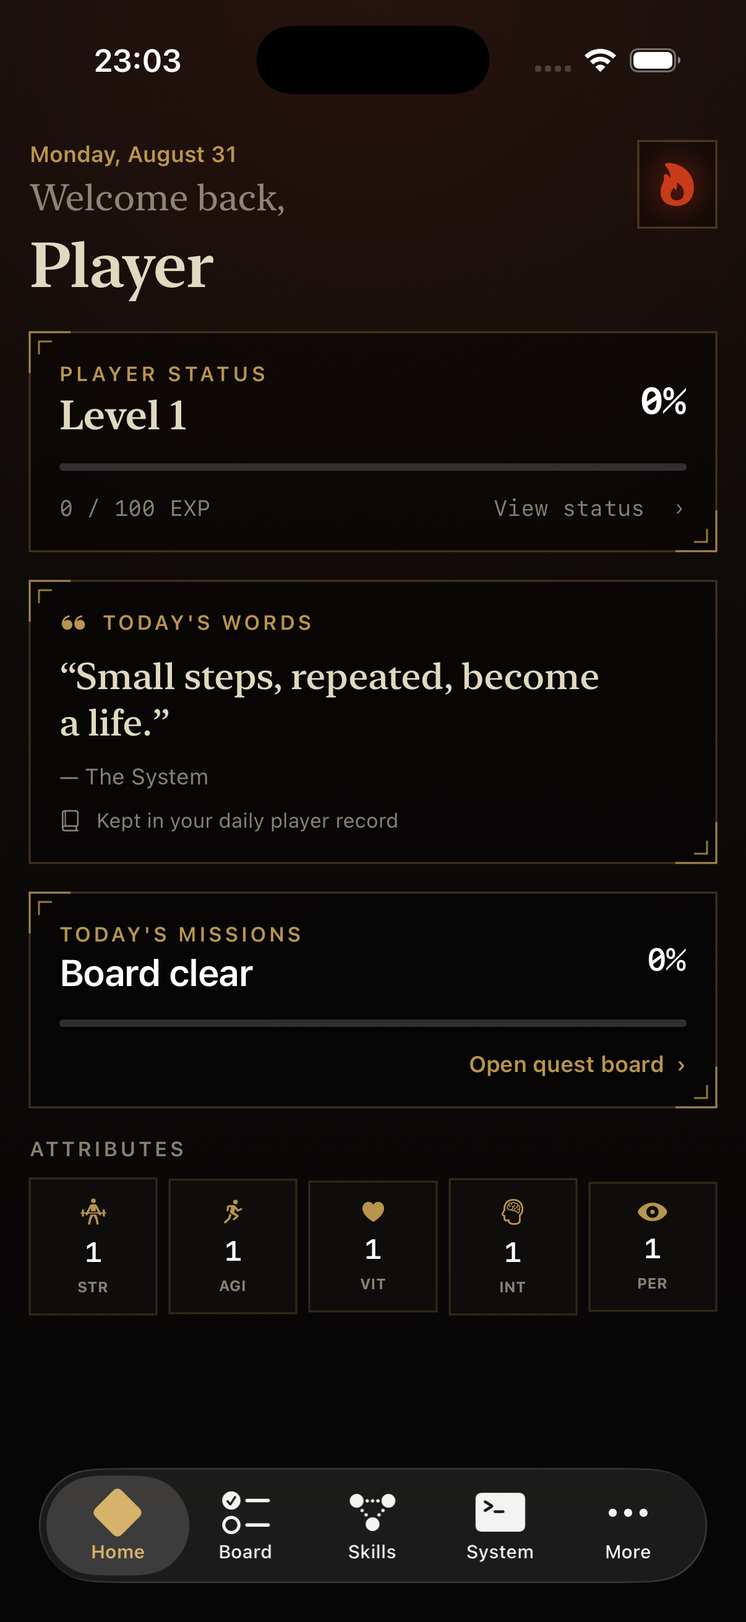
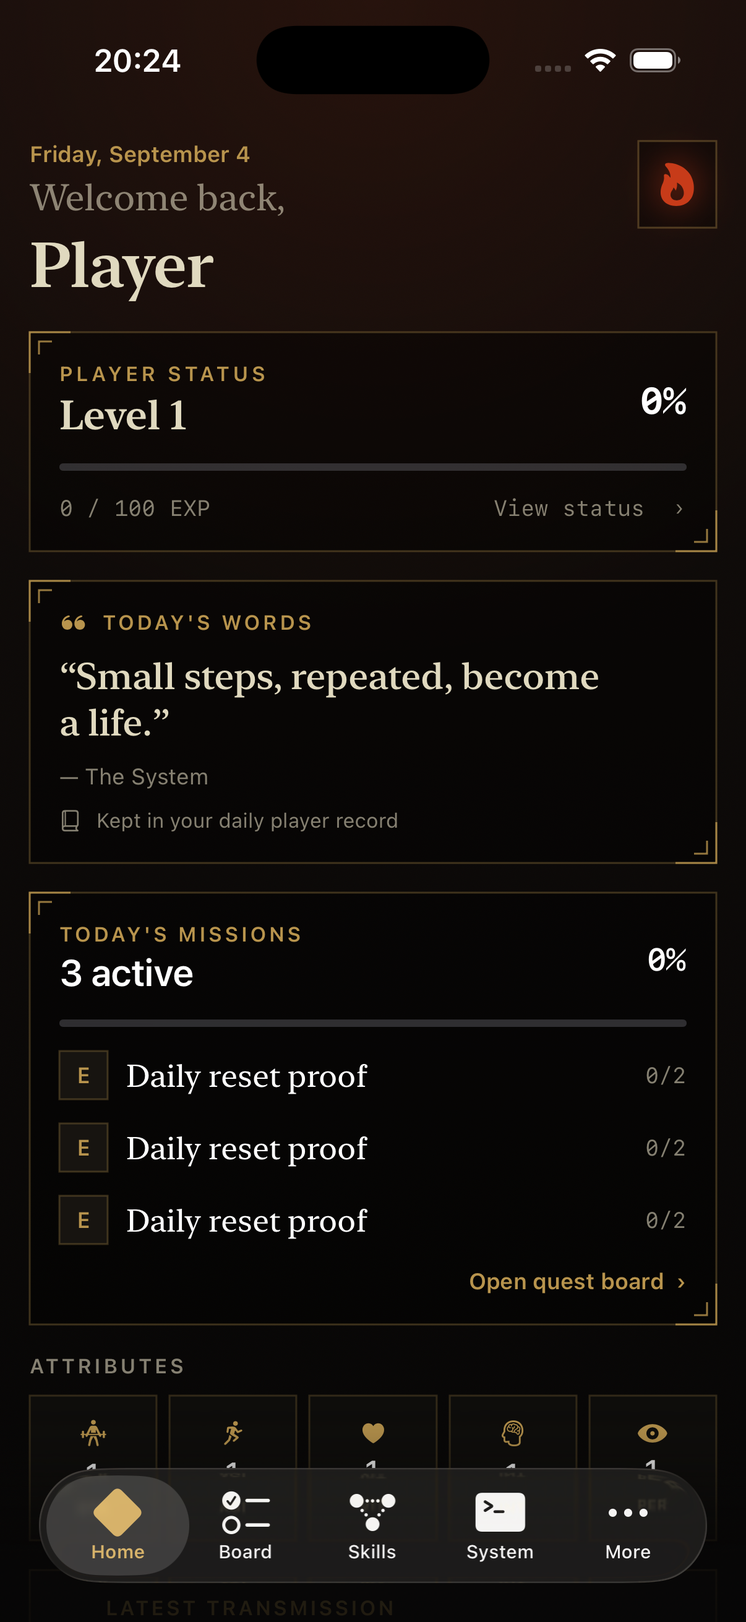
Add durable daily quest resets

diff --git a/ios/LifeSystem/Persistence.swift b/ios/LifeSystem/Persistence.swift
@@ -15,10 +15,19 @@ struct LocalSnapshot: Codable {
     var events: [SystemEvent]
     var quote: DailyQuote
     var attachmentData: [Int: Data]?
+    var penalties: [LocalPenalty]?
 
     static var initial: Self {
-        .init(player: .init(id: 1, name: "Player", level: 1, exp: 0, expToNextLevel: 100, expProgress: 0, totalExpEarned: 0, statPoints: 0, stats: .init(strength: 1, agility: 1, vitality: 1, intelligence: 1, perception: 1), timezone: TimeZone.current.identifier), quests: [], skills: [], practices: [:], events: [], quote: .init(localDate: Date.now.formatted(.iso8601.year().month().day()), quote: .init(id: 1, text: "Small steps, repeated, become a life.", author: "The System"), poolSize: 1, refreshAfter: Calendar.current.date(byAdding: .day, value: 1, to: .now)!.ISO8601Format()), attachmentData: [:])
+        .init(player: .init(id: 1, name: "Player", level: 1, exp: 0, expToNextLevel: 100, expProgress: 0, totalExpEarned: 0, statPoints: 0, stats: .init(strength: 1, agility: 1, vitality: 1, intelligence: 1, perception: 1), timezone: TimeZone.current.identifier), quests: [], skills: [], practices: [:], events: [], quote: .init(localDate: Date.now.formatted(.iso8601.year().month().day()), quote: .init(id: 1, text: "Small steps, repeated, become a life.", author: "The System"), poolSize: 1, refreshAfter: Calendar.current.date(byAdding: .day, value: 1, to: .now)!.ISO8601Format()), attachmentData: [:], penalties: [])
     }
+}
+
+struct LocalPenalty: Codable {
+    let questId: Int
+    let instanceId: Int
+    let reason: String
+    let expLost: Int
+    let createdAt: String
 }
 
 @MainActor final class PersistenceController {
@@ -63,8 +72,13 @@ enum LocalDataError: LocalizedError {
         case ("POST", "/quests"):
             let id = (data.quests.map(\.id).max() ?? 0) + 1
             let target = fields["target_count"] as? Int ?? 1
-            let schedule = (fields["schedule"] as? [String: Any])?["kind"] as? String ?? "daily"
-            let quest = Quest(id: id, title: fields["title"] as? String ?? "Untitled quest", description: fields["description"] as? String, schedule: .init(label: scheduleLabel(schedule)), difficulty: fields["difficulty"] as? String ?? "E", targetCount: target, unit: fields["unit"] as? String, practiceMinutes: fields["practice_minutes"] as? Int ?? 10, statReward: fields["stat_reward"] as? String, statRewardAmount: fields["stat_reward_amount"] as? Int ?? 0, skillId: fields["skill_id"] as? Int, isActive: true, currentInstance: .init(id: id, progress: 0, targetCount: target, status: "active", periodEnd: "Today"), nextDueDate: nil)
+            let scheduleFields = fields["schedule"] as? [String: Any] ?? [:]
+            let schedule = scheduleFields["kind"] as? String ?? "daily"
+            let today = localDay(for: data.player)
+            let spec = QuestSchedule(label: scheduleLabel(schedule), kind: schedule, days: scheduleFields["days"] as? [Int], intervalDays: scheduleFields["interval_days"] as? Int, anchor: isoDay(today), weekStart: scheduleFields["week_start"] as? Int)
+            let period = currentPeriod(for: spec, on: today)
+            let instance = period.map { QuestInstance(id: id, progress: 0, targetCount: target, status: "active", periodEnd: $0.end.map(isoDay), periodStart: isoDay($0.start)) }
+            let quest = Quest(id: id, title: fields["title"] as? String ?? "Untitled quest", description: fields["description"] as? String, schedule: spec, difficulty: fields["difficulty"] as? String ?? "E", targetCount: target, unit: fields["unit"] as? String, practiceMinutes: fields["practice_minutes"] as? Int ?? 10, statReward: fields["stat_reward"] as? String, statRewardAmount: fields["stat_reward_amount"] as? Int ?? 0, skillId: fields["skill_id"] as? Int, isActive: true, currentInstance: instance, nextDueDate: nil)
             data.quests.append(quest); result = quest
         case ("POST", let value) where value.hasSuffix("/progress") || value.hasSuffix("/complete"):
             guard let id = Int(value.split(separator: "/")[1]), let index = data.quests.firstIndex(where: { $0.id == id }) else { throw LocalDataError.missing("Quest") }
@@ -136,7 +150,8 @@ enum LocalDataError: LocalizedError {
             let id = Int(value.split(separator: "/").last ?? "") ?? 0
             guard let bytes = data.attachmentData?[id] else { throw LocalDataError.missing("Practice attachment") }
             result = bytes
-        case ("POST", "/system/daily-reset"): result = DailyReset(resetDate: Date.now.formatted(.iso8601.year().month().day()), failedCount: 0, spawnedCount: 0, totalExpLost: 0)
+        case ("POST", "/system/daily-reset"):
+            result = runLocalDailyReset(&data, on: localDay(for: data.player))
         default: throw LocalDataError.unsupported("\(method) \(path)")
         }
         if method != "GET" { record.payload = try encoder.encode(data); record.modifiedAt = .now; try context.save() }
@@ -144,6 +159,17 @@ enum LocalDataError: LocalizedError {
     }
 
     func request<Response: Decodable>(_ path: String, method: String = "GET") async throws -> Response { try await request(path, method: method, body: Optional<String>.none) }
+#if DEBUG
+    func backdateQuestForResetProof(_ questID: Int) throws {
+        let context = PersistenceController.shared.container.mainContext
+        let record = try load(context)
+        var data = try decoder.decode(LocalSnapshot.self, from: record.payload)
+        guard let index = data.quests.firstIndex(where: { $0.id == questID }), let instance = data.quests[index].currentInstance else { throw LocalDataError.missing("Quest") }
+        let yesterday = Calendar.current.date(byAdding: .day, value: -1, to: localDay(for: data.player))!
+        data.quests[index] = data.quests[index].replacingInstance(.init(id: instance.id, progress: instance.progress, targetCount: instance.targetCount, status: "active", periodEnd: isoDay(yesterday), periodStart: isoDay(yesterday)))
+        record.payload = try encoder.encode(data); record.modifiedAt = .now; try context.save()
+    }
+#endif
     private func load(_ context: ModelContext) throws -> SyncedSystemState {
         var descriptor = FetchDescriptor<SyncedSystemState>(sortBy: [SortDescriptor(\.modifiedAt, order: .reverse)]); descriptor.fetchLimit = 1
         if let found = try context.fetch(descriptor).first { return found }
@@ -154,6 +180,64 @@ enum LocalDataError: LocalizedError {
 
 private let maximumLevel = 999
 private let statPointsPerLevel = 3
+
+private struct LocalPeriod { let start: Date; let end: Date? }
+private let dayFormatter: DateFormatter = { let value = DateFormatter(); value.calendar = Calendar(identifier: .gregorian); value.locale = Locale(identifier: "en_US_POSIX"); value.dateFormat = "yyyy-MM-dd"; return value }()
+private func isoDay(_ date: Date) -> String { dayFormatter.string(from: date) }
+private func parseDay(_ value: String?) -> Date? { value.flatMap(dayFormatter.date) }
+private func localDay(for player: PlayerStatus) -> Date { var calendar = Calendar(identifier: .gregorian); calendar.timeZone = TimeZone(identifier: player.timezone) ?? .current; return calendar.startOfDay(for: .now) }
+
+private func currentPeriod(for schedule: QuestSchedule, on day: Date) -> LocalPeriod? {
+    var calendar = Calendar(identifier: .gregorian); calendar.timeZone = dayFormatter.timeZone ?? .current
+    let legacyKind: String
+    switch schedule.label {
+    case "One time": legacyKind = "once"
+    case "Selected days": legacyKind = "weekdays"
+    case "Every N days": legacyKind = "interval"
+    case "Weekly target": legacyKind = "weekly"
+    default: legacyKind = "daily"
+    }
+    let kind = schedule.kind ?? legacyKind
+    if kind == "once" { return .init(start: parseDay(schedule.anchor) ?? day, end: nil) }
+    if kind == "daily" { return .init(start: day, end: day) }
+    let weekday = (calendar.component(.weekday, from: day) + 5) % 7
+    if kind == "weekdays" { return (schedule.days ?? []).contains(weekday) ? .init(start: day, end: day) : nil }
+    if kind == "weekly" {
+        let startDay = schedule.weekStart ?? 0, delta = (weekday - startDay + 7) % 7
+        let start = calendar.date(byAdding: .day, value: -delta, to: day)!
+        return .init(start: start, end: calendar.date(byAdding: .day, value: 6, to: start))
+    }
+    let anchor = parseDay(schedule.anchor) ?? day, length = max(1, schedule.intervalDays ?? 1)
+    let elapsed = max(0, calendar.dateComponents([.day], from: anchor, to: day).day ?? 0)
+    let start = calendar.date(byAdding: .day, value: (elapsed / length) * length, to: anchor)!
+    return .init(start: start, end: calendar.date(byAdding: .day, value: length - 1, to: start))
+}
+
+private func runLocalDailyReset(_ data: inout LocalSnapshot, on today: Date) -> DailyReset {
+    var failed = 0, spawned = 0, lost = 0
+    if data.penalties == nil { data.penalties = [] }
+    for index in data.quests.indices where data.quests[index].isActive {
+        let quest = data.quests[index]
+        if let instance = quest.currentInstance, instance.status == "active", let end = parseDay(instance.periodEnd), end < today {
+            failed += 1
+            let expLost = min(data.player.exp, quest.practiceMinutes)
+            lost += expLost
+            data.player = data.player.replacingExp(data.player.exp - expLost)
+            data.penalties?.append(.init(questId: quest.id, instanceId: instance.id, reason: "Failed quest: \(quest.title)", expLost: expLost, createdAt: Date.now.ISO8601Format()))
+            data.events.insert(.init(id: nextEventID(data.events), eventType: "penalty_applied", message: "Penalty incurred: Failed quest: \(quest.title) (-\(expLost) EXP)", createdAt: Date.now.ISO8601Format()), at: 0)
+            data.events.insert(.init(id: nextEventID(data.events), eventType: "quest_failed", message: "Quest failed: \(quest.title) (\(instance.progress)/\(instance.targetCount))", createdAt: Date.now.ISO8601Format()), at: 0)
+        }
+        if let period = currentPeriod(for: quest.schedule, on: today), quest.schedule.kind != "once", quest.currentInstance?.periodStart != isoDay(period.start) {
+            let nextID = (data.quests.compactMap(\.currentInstance?.id).max() ?? 0) + 1
+            data.quests[index] = quest.replacingInstance(.init(id: nextID, progress: 0, targetCount: quest.targetCount, status: "active", periodEnd: period.end.map(isoDay), periodStart: isoDay(period.start)))
+            spawned += 1
+        }
+    }
+    if failed > 0 || spawned > 0 {
+        data.events.insert(.init(id: nextEventID(data.events), eventType: "daily_reset", message: "Reset: \(failed) quest\(failed == 1 ? "" : "s") failed, \(spawned) quest\(spawned == 1 ? "" : "s") issued\(lost > 0 ? " (-\(lost) EXP)" : "").", createdAt: Date.now.ISO8601Format()), at: 0)
+    }
+    return .init(resetDate: isoDay(today), failedCount: failed, spawnedCount: spawned, totalExpLost: lost)
+}
 
 private func expThreshold(_ level: Int) -> Int {
     guard level < maximumLevel else { return 0 }
@@ -243,4 +327,16 @@ private func skillDetail(for skill: SkillSummary, in nodes: [SkillNode]) -> Skil
 private func findSkillNode(_ id: Int, _ nodes: [SkillNode]) -> SkillNode? { for node in nodes { if node.id == id { return node }; if let value = findSkillNode(id, node.children) { return value } }; return nil }
 private extension SkillSummary { func node(children: [SkillNode] = []) -> SkillNode { .init(id: id, parentId: parentId, name: name, description: description, iconKey: iconKey, level: level, exp: exp, expToNextLevel: expToNextLevel, expProgress: expProgress, totalExpEarned: totalExpEarned, isActive: isActive, depth: depth, createdAt: createdAt, children: children) } }
 private extension SkillNode { func replacingChildren(_ children: [SkillNode]) -> SkillNode { .init(id: id, parentId: parentId, name: name, description: description, iconKey: iconKey, level: level, exp: exp, expToNextLevel: expToNextLevel, expProgress: expProgress, totalExpEarned: totalExpEarned, isActive: isActive, depth: depth, createdAt: createdAt, children: children) } }
-private extension Quest { func replacingProgress(_ value: Int) -> Quest { .init(id: id, title: title, description: description, schedule: schedule, difficulty: difficulty, targetCount: targetCount, unit: unit, practiceMinutes: practiceMinutes, statReward: statReward, statRewardAmount: statRewardAmount, skillId: skillId, isActive: isActive, currentInstance: .init(id: currentInstance?.id ?? id, progress: value, targetCount: currentInstance?.targetCount ?? targetCount, status: value >= targetCount ? "completed" : "active", periodEnd: currentInstance?.periodEnd), nextDueDate: nextDueDate) } }
+private extension PlayerStatus {
+    func replacingExp(_ value: Int) -> PlayerStatus {
+        .init(id: id, name: name, level: level, exp: value, expToNextLevel: expToNextLevel, expProgress: expToNextLevel == 0 ? 1 : Double(value) / Double(expToNextLevel), totalExpEarned: totalExpEarned, statPoints: statPoints, stats: stats, timezone: timezone)
+    }
+}
+private extension Quest {
+    func replacingInstance(_ instance: QuestInstance?) -> Quest {
+        .init(id: id, title: title, description: description, schedule: schedule, difficulty: difficulty, targetCount: targetCount, unit: unit, practiceMinutes: practiceMinutes, statReward: statReward, statRewardAmount: statRewardAmount, skillId: skillId, isActive: isActive, currentInstance: instance, nextDueDate: nextDueDate)
+    }
+    func replacingProgress(_ value: Int) -> Quest {
+        replacingInstance(.init(id: currentInstance?.id ?? id, progress: value, targetCount: currentInstance?.targetCount ?? targetCount, status: value >= targetCount ? "completed" : "active", periodEnd: currentInstance?.periodEnd, periodStart: currentInstance?.periodStart))
+    }
+}

diff --git a/ios/LifeSystem/PreviewSupport.swift b/ios/LifeSystem/PreviewSupport.swift
@@ -104,6 +104,67 @@ struct ProgressionProofScreen: View {
     }
 }
 
+struct DailyResetProofScreen: View {
+    @State private var checks: [(String, Bool, String)] = []
+    @State private var running = true
+
+    var body: some View {
+        NavigationStack {
+            List {
+                Section("Recurring settlement") {
+                    ForEach(Array(checks.enumerated()), id: \.offset) { _, check in
+                        HStack(alignment: .top, spacing: 12) {
+                            Image(systemName: check.1 ? "checkmark.seal.fill" : "xmark.octagon.fill")
+                                .foregroundStyle(check.1 ? .green : .red)
+                            VStack(alignment: .leading, spacing: 3) {
+                                Text(check.0).font(.headline)
+                                Text(check.2).font(.caption.monospaced()).foregroundStyle(.secondary)
+                            }
+                        }
+                    }
+                }
+            }
+            .overlay { if running { ProgressView("Settling a missed period…") } }
+            .navigationTitle("Reset Proof")
+            .task { await run() }
+        }
+    }
+
+    @MainActor private func run() async {
+        var stage = "load player"
+        do {
+            let store = LocalDataStore.shared
+            let before: PlayerStatus = try await store.request("/players/me")
+            stage = "create funding quest"
+            let awardQuest: Quest = try await store.request("/quests", method: "POST", body: ProofQuestPayload(title: "Fund reset proof", description: nil, schedule: .init(kind: "once"), difficulty: "E", targetCount: 1, unit: "session", practiceMinutes: 40, statReward: nil, statRewardAmount: 0, skillId: nil))
+            stage = "complete funding quest"
+            let _: QuestAction = try await store.request("/quests/\(awardQuest.id)/complete", method: "POST")
+            stage = "create recurring quest"
+            let missed: Quest = try await store.request("/quests", method: "POST", body: ProofQuestPayload(title: "Daily reset proof", description: nil, schedule: .init(kind: "daily"), difficulty: "E", targetCount: 2, unit: "sessions", practiceMinutes: 25, statReward: nil, statRewardAmount: 0, skillId: nil))
+            stage = "backdate recurring quest"
+            try store.backdateQuestForResetProof(missed.id)
+            stage = "first reset"
+            let first: DailyReset = try await store.request("/system/daily-reset", method: "POST")
+            stage = "idempotence reset"
+            let second: DailyReset = try await store.request("/system/daily-reset", method: "POST")
+            stage = "reload durable state"
+            let after: PlayerStatus = try await store.request("/players/me")
+            let today: [Quest] = try await store.request("/quests/today")
+            let events: [SystemEvent] = try await store.request("/system/events")
+            let reopened = today.first(where: { $0.id == missed.id })
+            checks = [
+                ("Missed period failed once", first.failedCount == 1 && second.failedCount == 0, "reset counts \(first.failedCount), then \(second.failedCount)"),
+                ("Penalty applied once", first.totalExpLost == 25 && second.totalExpLost == 0 && after.exp == before.exp + 15, "funded +40 EXP, then lost 25"),
+                ("Fresh period opened", first.spawnedCount == 1 && second.spawnedCount == 0 && reopened?.currentInstance?.progress == 0, "new active instance #\(reopened?.currentInstance?.id ?? 0)"),
+                ("Failure is explained", events.contains(where: { $0.eventType == "quest_failed" && $0.message.contains("Daily reset proof") }) && events.contains(where: { $0.eventType == "penalty_applied" && $0.message.contains("-25 EXP") }), "failure and penalty transmissions saved")
+            ]
+        } catch {
+            checks = [("Reset proof failed", false, "\(stage): \(String(reflecting: error))")]
+        }
+        running = false
+    }
+}
+
 struct LockScreenWidgetSimulationView: View {
     private let quote = "The work you do today becomes your strength tomorrow."
 

diff --git a/ios/LifeSystem/CreateQuestView.swift b/ios/LifeSystem/CreateQuestView.swift
@@ -206,7 +206,11 @@ struct CreateQuestView: View {
                         .textInputAutocapitalization(.never)
                     Stepper("Practice: \(minutes) minutes", value: $minutes, in: 1...10_000)
                 } header: { Text("Target and reward") }
-                  footer: { Text("Completion awards \(minutes) EXP. One practice minute equals one EXP.") }
+                  footer: {
+                      Text(kind == .once
+                           ? "Completion awards \(minutes) EXP. One practice minute equals one EXP."
+                           : "Completion awards \(minutes) EXP. If this period is missed, you lose up to \(minutes) current EXP.")
+                  }
 
                 Section {
                     Toggle("Grant a stat reward", isOn: $givesStatReward)
@@ -292,6 +296,9 @@ struct CreateQuestView: View {
             Label(kind.label, systemImage: "calendar")
             Label("\(target) \(unit.isEmpty ? "unit\(target == 1 ? "" : "s")" : unit)", systemImage: "scope")
             Label("\(minutes) EXP on completion", systemImage: "sparkles")
+            if kind != .once {
+                Label("If missed: lose up to \(minutes) current EXP", systemImage: "exclamationmark.shield")
+            }
             if linkedSkill != nil {
                 Label("Trains \(selectedSkillName)", systemImage: "point.3.connected.trianglepath.dotted")
             }
@@ -325,6 +332,7 @@ struct CreateQuestView: View {
         ]
         if linkedSkill != nil { parts.append("Trains \(selectedSkillName)") }
         if givesStatReward { parts.append("Rewards \(rewardAmount) \(rewardStat.rawValue)") }
+        if kind != .once { parts.append("If missed, lose up to \(minutes) current experience") }
         return parts.joined(separator: ", ")
     }
 

diff --git a/ios/LifeSystem/Models.swift b/ios/LifeSystem/Models.swift
@@ -166,7 +166,23 @@ struct Quest: Codable, Identifiable {
     }
 }
 
-struct QuestSchedule: Codable { let label: String }
+struct QuestSchedule: Codable {
+    let label: String
+    let kind: String?
+    let days: [Int]?
+    let intervalDays: Int?
+    let anchor: String?
+    let weekStart: Int?
+
+    init(label: String, kind: String? = nil, days: [Int]? = nil, intervalDays: Int? = nil, anchor: String? = nil, weekStart: Int? = nil) {
+        self.label = label
+        self.kind = kind
+        self.days = days
+        self.intervalDays = intervalDays
+        self.anchor = anchor
+        self.weekStart = weekStart
+    }
+}
 
 struct QuestInstance: Codable {
     let id: Int
@@ -174,6 +190,16 @@ struct QuestInstance: Codable {
     let targetCount: Int
     let status: String
     let periodEnd: String?
+    let periodStart: String?
+
+    init(id: Int, progress: Int, targetCount: Int, status: String, periodEnd: String?, periodStart: String? = nil) {
+        self.id = id
+        self.progress = progress
+        self.targetCount = targetCount
+        self.status = status
+        self.periodEnd = periodEnd
+        self.periodStart = periodStart
+    }
 }
 
 struct QuestAction: Codable {

diff --git a/ios/LifeSystem/LifeSystemApp.swift b/ios/LifeSystem/LifeSystemApp.swift
@@ -46,6 +46,8 @@ struct RootView: View {
                 DashboardPreviewScreen()
             } else if ProcessInfo.processInfo.arguments.contains("-progressionProof") {
                 ProgressionProofScreen()
+            } else if ProcessInfo.processInfo.arguments.contains("-dailyResetProof") {
+                DailyResetProofScreen()
             } else if ProcessInfo.processInfo.arguments.contains("-questRewardPreview") {
                 QuestRewardPreviewScreen()
             } else {

diff --git a/docs/daily-use-ux-review.md b/docs/daily-use-ux-review.md
@@ -603,3 +603,21 @@ Verification on the iPhone 17 Pro Simulator running iOS 26.5:
 - Evidence: `ios/Screenshots/quest-creation-dynamic-type-large.png` and `ios/Screenshots/quest-creation-dynamic-type-ax5.png`.
 
 This is another verified partial resolution, not closure of the original P0. The remaining core screens and a complete VoiceOver create → complete → practice journey still need Large/XXXL/AX5 verification before the release blocker can be marked resolved.
+
+## Product-development history — 1 September 2026 (offline recurring settlement)
+
+### Durable recurring reset and disclosed penalties
+
+Carried-forward finding: **P0 — Make progression behavior truthful and reliable**, specifically “Daily reset currently returns a placeholder and does not implement recurrence, failure, or penalties.” Acceptance scenario addressed: **5. A failed recurring quest applies exactly the disclosed penalty once, records why, and opens the next period correctly.**
+
+The offline-first iOS store now persists recurrence configuration and period identity, settles lapsed active periods, deducts no more than the player's current-level EXP, preserves lifetime earned EXP and level, records durable failure/penalty/reset transmissions and penalty metadata, and opens the period currently due. Repeating reset against that period is idempotent. Recurring quest creation now states the maximum current-EXP loss in both visible review copy and its combined VoiceOver summary.
+
+Verification on the iPhone 17 Pro Simulator running iOS 26.5:
+
+- The Debug app build completed with `** BUILD SUCCEEDED **`.
+- The deterministic `-dailyResetProof` journey funded current EXP, backdated one daily quest, ran reset twice, and verified one failure, one 25 EXP loss, one fresh zero-progress period, and saved failure/penalty transmissions.
+- After force-quit and relaunch, the persisted snapshot decoded successfully and the complete proof passed again; this also verified that repeated settlement remained one-time within each generated period.
+- Quest creation was inspected at Large and AX5 after adding the penalty disclosure. The form remained vertically scrollable with retained controls; no new horizontal clipping was observed.
+- Evidence: `ios/Screenshots/daily-reset-proof.png`, `ios/Screenshots/daily-reset-proof-relaunch.png`, `ios/Screenshots/quest-penalty-disclosure-large.png`, and `ios/Screenshots/quest-penalty-disclosure-ax5.png`.
+
+This resolves the offline authored-quest portion of the reset placeholder. The P0 remains open for foreground-trigger coverage, a player-facing penalty-history surface, physical-device/multi-device CloudKit conflict testing, and side-quest parity in the offline store.

diff --git a/docs/feature-maps/authored-quests.md b/docs/feature-maps/authored-quests.md
@@ -38,7 +38,7 @@ Contracts: `app/schemas/quest.py`; routes: `app/routers/quests.py`.
 ## Clients and gaps
 
 - Web: board, authoring/edit sheet, archive/restore, progress, and completion under `web/src/features/quests`.
-- iOS: `QuestViews.swift` provides board progress/completion, a completion reward receipt, and the quest library. `CreateQuestView.swift` authors one-time, daily, selected-weekday, interval, and weekly quests with target, rank, practice-minute/EXP reward, and optional stat reward. Starting the form from a skill detail pre-links that skill. The form caps its dense content at AX2 when the system uses a larger accessibility category, switches weekday selection to a two-column full-name grid at accessibility sizes, preserves 44-point day targets, wraps explanatory and review copy, and combines the review as a plain-language VoiceOver summary. The offline-first store applies player EXP, level/stat-point changes, direct stat rewards, linked-skill roll-up, event history, and Today removal atomically and rejects duplicate payouts from an already completed instance. General skill selection, editing, archive/restore, custom progress amounts, and pace conversion are not implemented.
+- iOS: `QuestViews.swift` provides board progress/completion, a completion reward receipt, and the quest library. `CreateQuestView.swift` authors one-time, daily, selected-weekday, interval, and weekly quests with target, rank, practice-minute/EXP reward, optional stat reward, and an explicit recurring-miss penalty preview. Starting the form from a skill detail pre-links that skill. The form caps its dense content at AX2 when the system uses a larger accessibility category, switches weekday selection to a two-column full-name grid at accessibility sizes, preserves 44-point day targets, wraps explanatory and review copy, and combines the review as a plain-language VoiceOver summary. The offline-first store applies player EXP, level/stat-point changes, direct stat rewards, linked-skill roll-up, event history, and Today removal atomically and rejects duplicate payouts from an already completed instance. It also persists schedule and period identity so local reset can fail a missed period once and issue the next due instance. General skill selection, editing, archive/restore, custom progress amounts, and pace conversion are not implemented.
 
 ## Verification
 

diff --git a/docs/feature-maps/scheduling-reset-penalties.md b/docs/feature-maps/scheduling-reset-penalties.md
@@ -34,9 +34,10 @@ Core pure operations are `validate`, `current_period`, `next_occurrence`, and `d
 ## Clients and gaps
 
 - Web runs reset from the status screen and exposes log/penalty information in the System screen.
-- iOS calls reset once when the dashboard enters and has no penalty-history screen. It does not yet observe every subsequent foreground transition.
+- iOS calls reset once when the dashboard enters. Its offline-first store now settles every lapsed active recurring instance, deducts at most the player's current-level EXP, records durable failure/penalty/reset events and penalty metadata, and opens the period currently due. Stored period-start identity makes repeated reset idempotent. Quest creation discloses the maximum loss alongside the reward. The app has no penalty-history screen and does not yet observe every subsequent foreground transition.
 
 ## Verification
 
 - Primary tests: `tests/test_scheduling.py`, `tests/test_schedule_lifecycle.py`, `tests/test_daily.py`, and side-quest lifecycle tests.
 - Freeze/override time in tests; cover timezone boundaries, repeat reset, missing days, weekly/interval anchors, and combined quest/side-quest settlement.
+- The iOS `-dailyResetProof` Debug journey backdates a daily period, funds current EXP, runs reset twice, and checks failure, one-time loss, respawn, and events. Relaunching the proof also exercises decoding and mutation of the persisted snapshot.

diff --git a/docs/feature-maps/player-progression.md b/docs/feature-maps/player-progression.md
@@ -34,6 +34,7 @@ Contracts: `app/schemas/player.py`. Routes: `app/routers/players.py`.
 - iOS opens on `DashboardView.swift`, which composes player progression, today's quote, active quest progress, attributes, and the latest System event. Tapping the level card drills into the Souls-style `StatusView.swift`, which loads `/players/me` and `/skills` together and presents identity, level/EXP, the five canonical stats, and skill mastery.
 - “See all 100 attributes” opens ten groups of human ability/personality facets. These values are deterministic client-side projections from the five canonical stats; they are not independent persisted stats and cannot be allocated or trained separately.
 - Stat allocation and profile editing are not yet implemented on iOS. Daily reset runs when the dashboard enters rather than from Player State.
+- Offline iOS authored-quest penalties remove only EXP in the current level, never de-level the player, and do not reduce lifetime earned EXP; the durable penalty record stores the amount actually lost.
 
 ## Verification
 

diff --git a/docs/feature-maps/ios-experience.md b/docs/feature-maps/ios-experience.md
@@ -48,6 +48,8 @@ The SwiftUI client under `ios/LifeSystem` is a native, offline-first game-like c
 - Child creation remains nested, and nested skill updates preserve existing descendants.
 - `-progressionProof` runs the real local request path and displays durable checks for player rewards, level/stat changes, Today filtering, nesting, roll-up, and journal media; relaunching it proves the prior state was persisted.
 - Quest completion presents a player-facing reward receipt, including the player EXP award and level-up direction.
+- Recurring quests persist their schedule and current period identity. Dashboard reset fails a lapsed active period once, deducts no more than current-level EXP, writes penalty/failure/reset history, and opens the period due today. Repeating reset in the same period is a no-op. Quest creation previews the maximum missed-period loss in plain language.
+- `-dailyResetProof` verifies this settlement path, including idempotence and snapshot decoding after force-quit/relaunch.
 
 ## Lock Screen quick actions
 

diff --git a/docs/feature-maps/system-events.md b/docs/feature-maps/system-events.md
@@ -31,7 +31,7 @@ Exact event values are defined by `EventType` in `app/models/enums.py`. Payloads
 ## Clients and gaps
 
 - Web: `web/src/features/system/system-view.tsx` combines System/event and request visibility.
-- iOS: `SystemLogView.swift` shows type, message, and raw created timestamp; no type-specific rendering, pagination, or payload presentation yet.
+- iOS: `SystemLogView.swift` shows type, message, and raw created timestamp. Offline recurring settlement now writes `quest_failed`, `penalty_applied`, and summary `daily_reset` transmissions in the same persisted snapshot as the quest and player mutations; no type-specific rendering, pagination, or payload presentation exists yet.
 
 ## Verification
 
